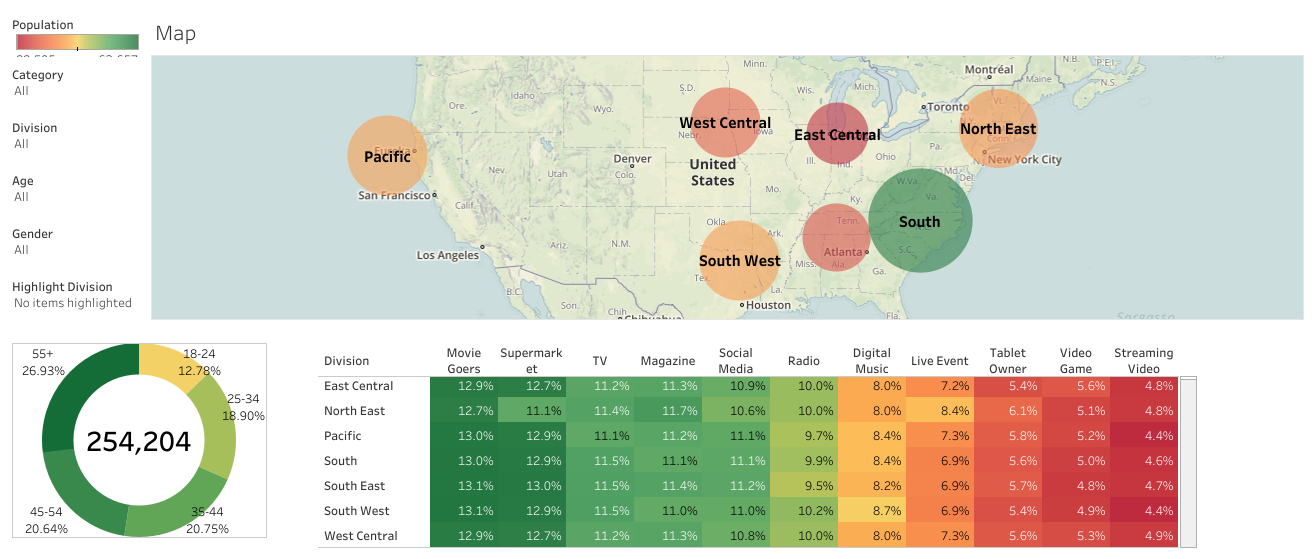
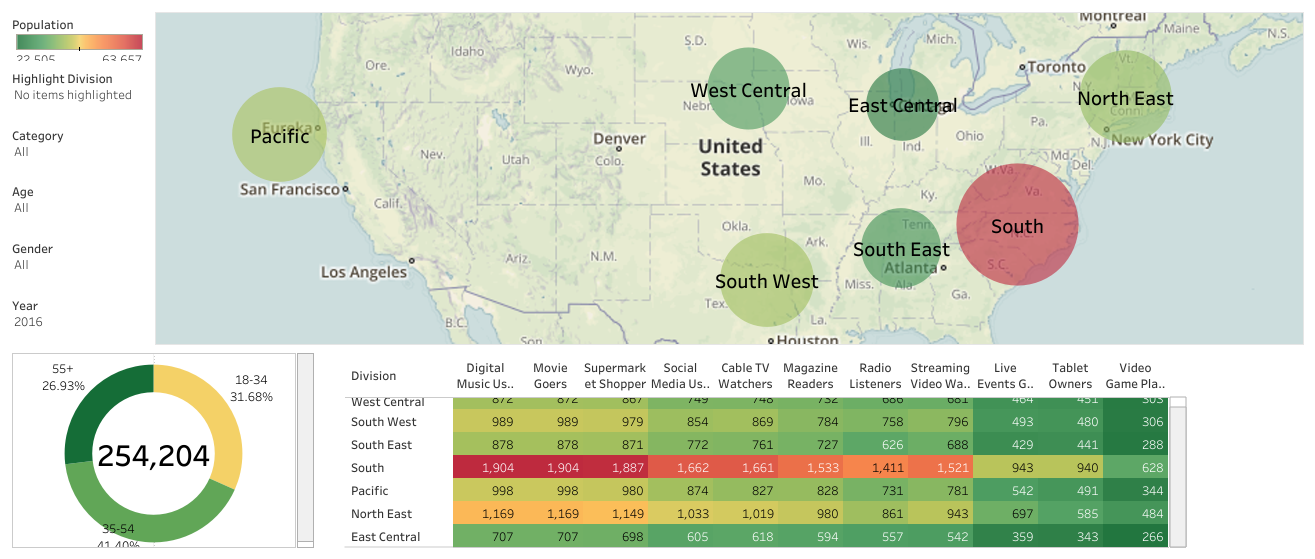
update tableau image

diff --git a/README.md b/README.md
@@ -68,7 +68,7 @@ Gen Z are aging from teenagers to young adults, they start graduating from colle
 
 ![alt text](https://raw.githubusercontent.com/david880110/Media-Behavior-Trends-Analytics/master/images/Gen%20Z%20vs%20Baby%20Boomer%20Db.png)
 
-[Tableau Visulization](https://public.tableau.com/profile/davidgu#!/vizhome/ConsumerBehavior_3/GenZvsBabyBoomerDb?publish=yes)
+[Tableau Visulization](https://public.tableau.com/profile/davidgu#!/vizhome/BehaviorAnalytics/Geography?publish=yes)
 
 ## Think before the demo day
 
